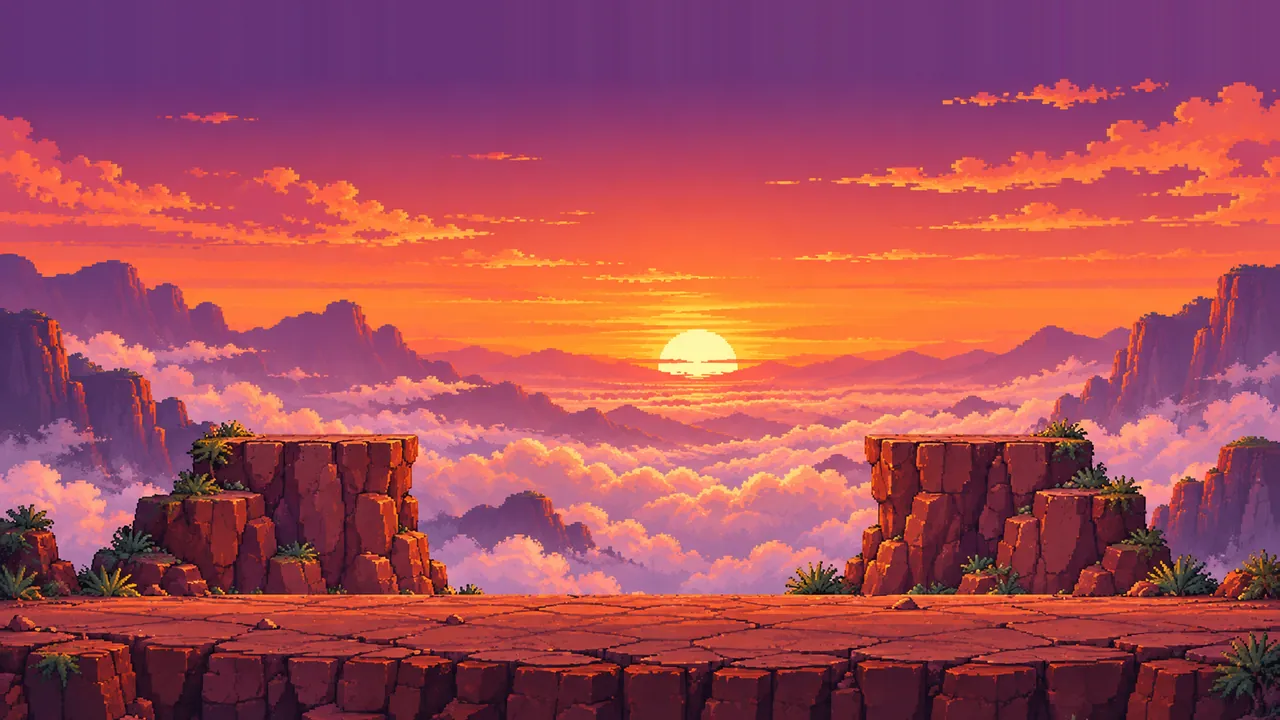
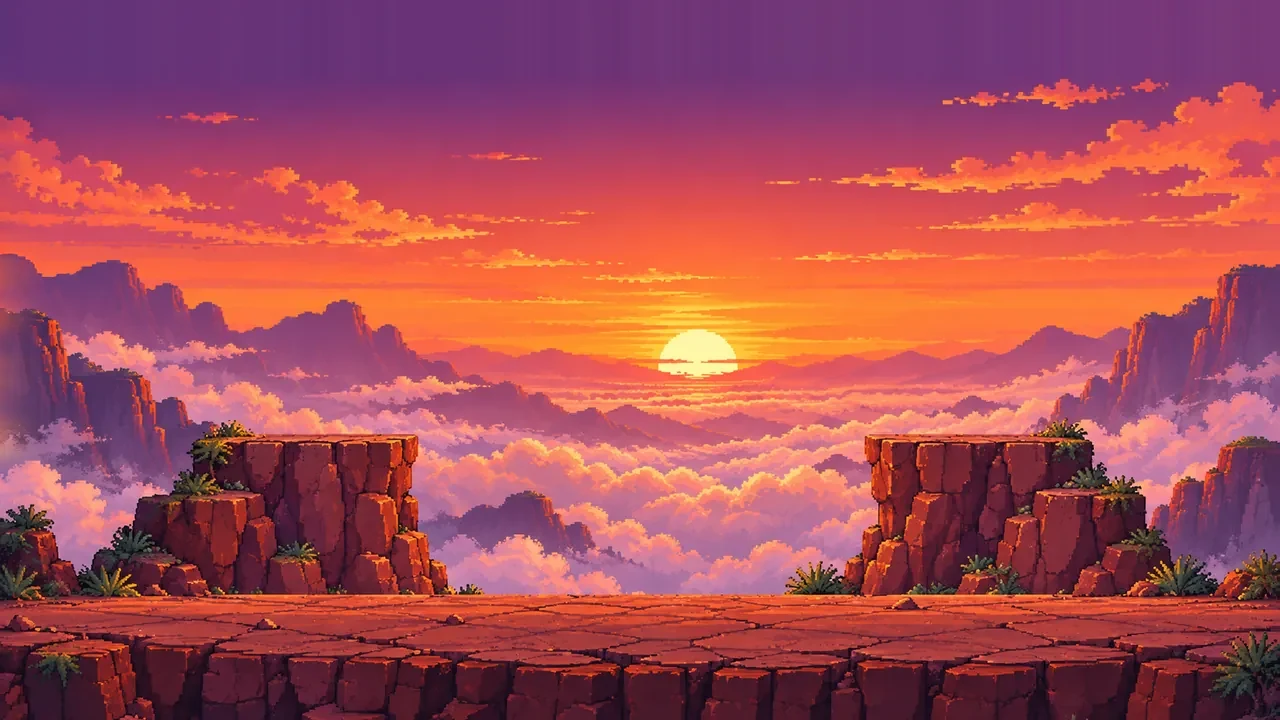
Senku 2: pulido tras QA final
- Ayuda de teclado oculta en pantallas pequeñas (≤700 px de ancho o ≤500 px de alto).
- Uniones del cielo suavizadas en despeñadero 01/02, 03/04 y cima 01/02 (tools/suavizar_uniones.py).
- Barra de vida del Gato Mecánico bajo el cartel de avisos.
- Camión del bonus apoyado en la calle.
- Pared de la torre del despeñadero alineada con la roca pintada (x 3955).
- Portada ancha: arte más arriba para que Jugar no tape las patas.
- VERSION_CACHE senku2-v10.

Claude-Session: https://claude.ai/code/session_01C2r6FoPrcNDdbmn3xJdeZf

Changed region(s): [[0.0, 0.3361, 0.0312, 0.6417], [0.0, 0.2139, 0.0312, 0.2444]]

diff --git a/senku/v2/index.html b/senku/v2/index.html
@@ -327,9 +327,8 @@
       .btn-salto { width: 80px; height: 80px; }
       .grupo-accion { gap: 8px; }
     }
-    @media (pointer: coarse) { .ayuda-teclado { display: none; } }
-      /* En pantallas táctiles la ayuda del teclado estorba a los botones. */
-    @media (pointer: coarse) { .ayuda-teclado { display: none; } }
+    /* En pantallas táctiles o pequeñas la ayuda del teclado estorba a los botones. */
+    @media (pointer: coarse), (max-width: 700px), (max-height: 500px) { .ayuda-teclado { display: none; } }
 </style>
 </head>
 <body>

diff --git a/senku/v2/sw.js b/senku/v2/sw.js
@@ -1,6 +1,6 @@
 // Service Worker para Senku 2 — Caché offline versionado y soporte PWA
 // Versión actual de la caché
-const VERSION_CACHE = 'senku2-v9';
+const VERSION_CACHE = 'senku2-v10';
 
 // Recursos esenciales que forman la base del juego para jugar sin conexión
 const RECURSOS_PRECACHE = [

diff --git a/senku/v2/tools/suavizar_uniones.py b/senku/v2/tools/suavizar_uniones.py
@@ -1,0 +1,65 @@
+#!/usr/bin/env python3
+"""Suaviza las uniones verticales del cielo/fondo entre tramos pintados contiguos.
+
+Para cada fila por encima de `ylim`, desplaza el color de las ~48 px a cada lado del borde
+hacia el promedio de ambos bordes (corrección que crece hacia la unión), conservando la
+textura. Suelo y plataformas (filas >= ylim) no se tocan; hay una transición de 24 filas.
+
+Uso: python3 senku/v2/tools/suavizar_uniones.py [--salida DIR]   (sin --salida sobrescribe;
+ya se aplicó el 31/10/2026: no volver a correrlo sobre los tramos ya suavizados)
+"""
+import argparse
+from pathlib import Path
+
+import numpy as np
+from PIL import Image
+
+RAIZ = Path(__file__).resolve().parents[1] / 'assets' / 'escenas'
+BANDA = 48
+TRANSICION = 24
+# (escena, tramo izquierdo, tramo derecho, ylim): filas por encima de ylim son fondo.
+UNIONES = [
+    ('despenadero', 1, 2, 540),  # repisa pintada empieza en x>=75 del tramo 2, y~555
+    ('despenadero', 3, 4, 720),  # solo fondo (abismo) a ambos lados
+    ('cima', 1, 2, 470),         # rocas pisables desde y~480
+]
+
+
+def suavizar(a, b, ylim):
+    a = a.astype(np.float32)
+    b = b.astype(np.float32)
+    h = a.shape[0]
+    borde_a = a[:, -3:, :].mean(axis=1)
+    borde_b = b[:, :3, :].mean(axis=1)
+    # Suavizado vertical para que la corrección no deje rayas horizontales.
+    k = np.exp(-0.5 * (np.arange(-12, 13) / 5.0) ** 2)
+    k /= k.sum()
+    def suave(c):
+        p = np.pad(c, ((12, 12), (0, 0)), mode='edge')
+        return np.stack([np.convolve(p[:, i], k, mode='valid') for i in range(c.shape[1])], axis=1)
+    borde_a, borde_b = suave(borde_a), suave(borde_b)
+    meta = (borde_a + borde_b) / 2
+    filas = np.clip((ylim - np.arange(h)) / TRANSICION, 0, 1)[:, None, None]
+    rampa = np.linspace(0, 1, BANDA) ** 1.5  # 0 lejos de la unión, 1 en el borde
+    a[:, -BANDA:, :] += filas * rampa[None, :, None] * (meta - borde_a)[:, None, :]
+    b[:, :BANDA, :] += filas * rampa[::-1][None, :, None] * (meta - borde_b)[:, None, :]
+    return np.clip(a, 0, 255).astype(np.uint8), np.clip(b, 0, 255).astype(np.uint8)
+
+
+def main():
+    ap = argparse.ArgumentParser()
+    ap.add_argument('--salida', type=Path, default=None)
+    args = ap.parse_args()
+    for escena, ia, ib, ylim in UNIONES:
+        rutas = [RAIZ / escena / f'{n:02d}.webp' for n in (ia, ib)]
+        a, b = (np.array(Image.open(r).convert('RGB')) for r in rutas)
+        a, b = suavizar(a, b, ylim)
+        for ruta, img in zip(rutas, (a, b)):
+            destino = (args.salida / escena / ruta.name) if args.salida else ruta
+            destino.parent.mkdir(parents=True, exist_ok=True)
+            Image.fromarray(img).save(destino, 'WEBP', quality=88, method=6)
+            print(destino, destino.stat().st_size // 1024, 'KB')
+
+
+if __name__ == '__main__':
+    main()
